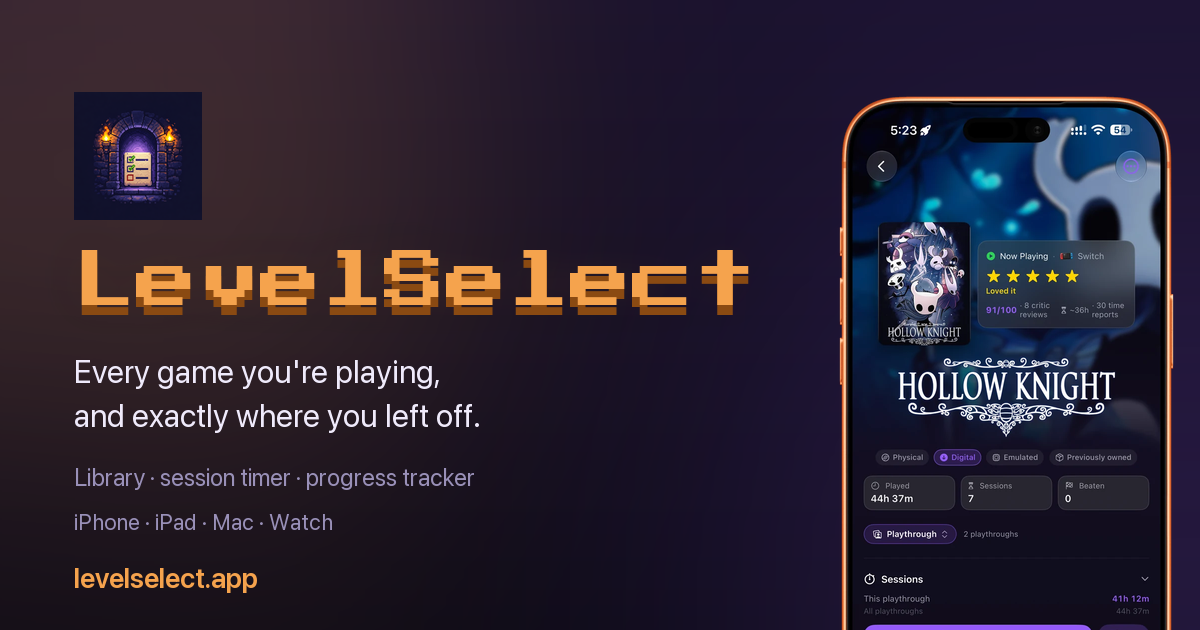
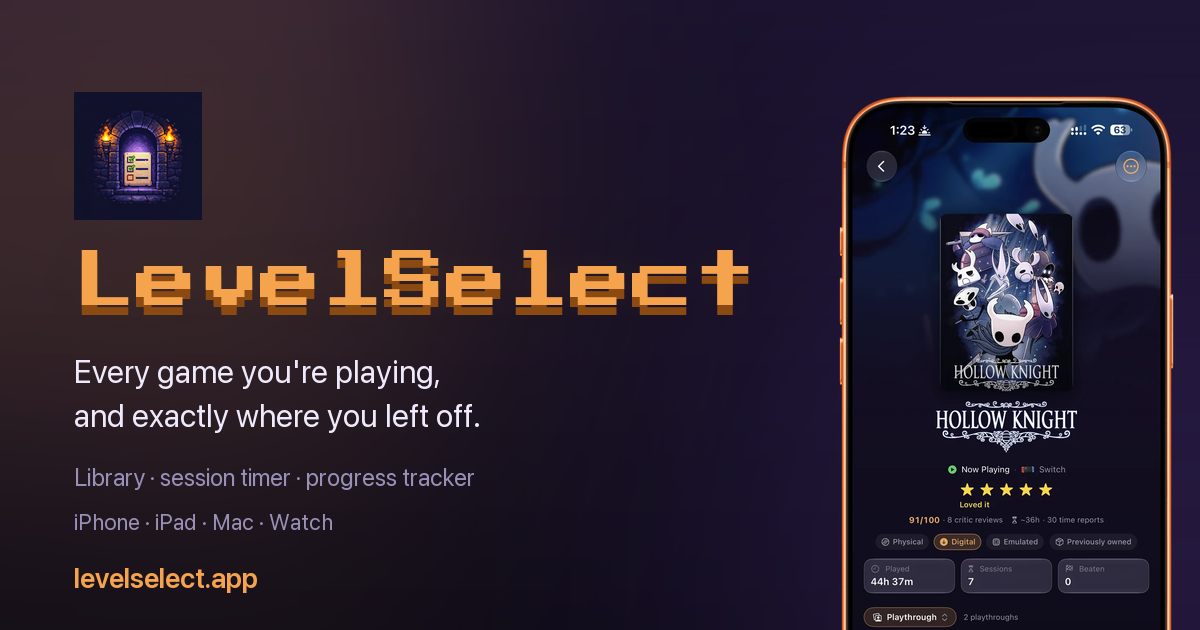
Regenerate the social images against build 33
`make-social-images.py` was still pinned to
`iphone-02-game-page-hollow.webp` — the build-32 game page — so every link
unfurl and every Instagram post advertised an app two builds old.

Same composition and the same reasoning, kept deliberately: a game page
rather than Home, because one big logo survives a thumbnail crop where a
grid of small covers turns to mush. Build 33's Home does now carry a pixel
name that would survive shrinking, but a wordmark over key art still reads
better, and the unfurl should look like what people see first when they
open a game.

All six rebuilt: og and og-2up (link previews), Instagram story and square,
each with a solo and a two-device variant.

Changed region(s): [[0.7092, 0.2413, 0.9867, 1.0], [0.74, 0.181, 0.7708, 0.2111]]

diff --git a/site/scripts/make-social-images.py b/site/scripts/make-social-images.py
@@ -34,7 +34,13 @@ MUTED       = (153, 144, 184)
 # page carries one big logo that survives being shrunk. The hero went back to
 # Home when the site turned out to have no picture of the app's front door
 # anywhere; this stayed put on purpose.
-PHONE_SHOT = "iphone-02-game-page-hollow.webp"
+#
+# Updated to the build-33 shot 2026-08-30. Same composition and the same
+# reasoning — a game page, not Home — just the current app. Build 33's Home
+# does now carry a big pixel name that would survive a thumbnail, but a
+# wordmark over key art still beats it, and the unfurl should look like the
+# thing people are shown first when they open a game.
+PHONE_SHOT = "iphone-33-layout-showcase.webp"
 IPAD_SHOT  = "ipad-01-split-tracker.webp"
 
 PIXEL = str(PUB / "assets" / "PressStart2P-Regular.ttf")
